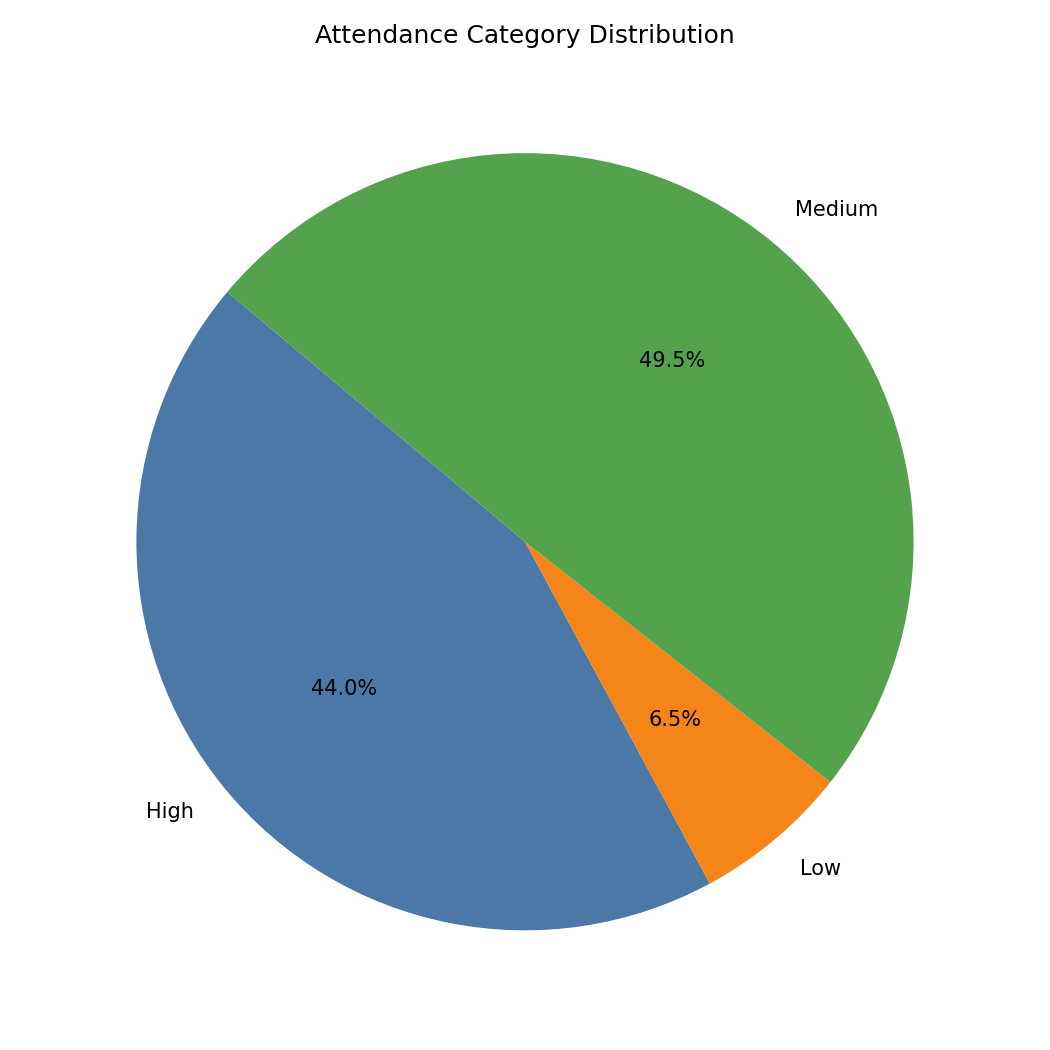
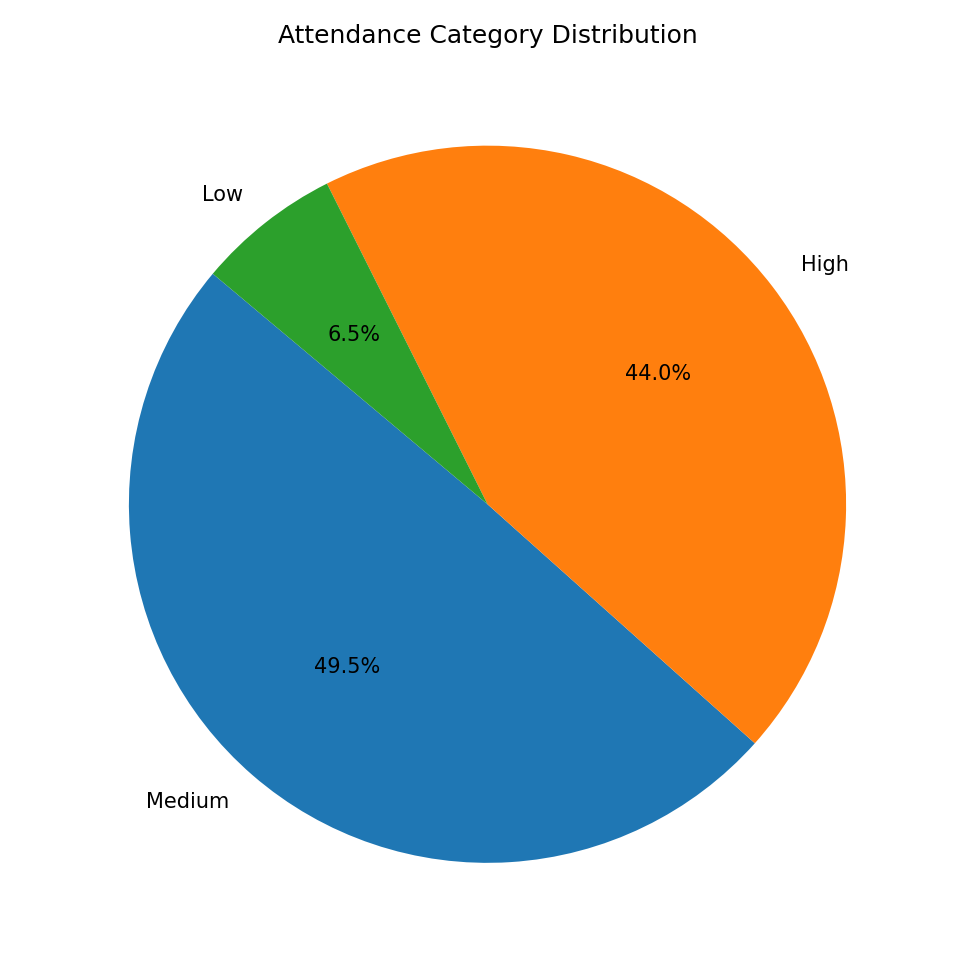
Add employee performance tracker with data generation and analysis pipeline

diff --git a/employee_performance_tracker/scripts/data_generation.py b/employee_performance_tracker/scripts/data_generation.py
@@ -1,0 +1,49 @@
+from pathlib import Path
+import numpy as np
+import pandas as pd
+
+
+def generate_mock_employee_data(num_employees: int = 200, seed: int = 42) -> pd.DataFrame:
+    rng = np.random.default_rng(seed)
+
+    departments = ["Sales", "Engineering", "HR", "Marketing", "Finance", "Operations", "Support"]
+    department_probs = np.array([0.18, 0.32, 0.06, 0.12, 0.10, 0.14, 0.08])
+
+    first_names = [
+        "Alex", "Jordan", "Taylor", "Morgan", "Casey", "Riley", "Cameron", "Avery",
+        "Jamie", "Drew", "Quinn", "Rowan", "Hayden", "Reese", "Blake", "Parker",
+        "Logan", "Skyler", "Elliot", "Sawyer",
+    ]
+    last_names = [
+        "Smith", "Johnson", "Williams", "Brown", "Jones", "Garcia", "Miller", "Davis",
+        "Rodriguez", "Martinez", "Hernandez", "Lopez", "Gonzalez", "Wilson", "Anderson",
+        "Thomas", "Taylor", "Moore", "Jackson", "Martin",
+    ]
+
+    employee_ids = [f"E{idx:04d}" for idx in range(1, num_employees + 1)]
+    names = [f"{rng.choice(first_names)} {rng.choice(last_names)}" for _ in range(num_employees)]
+
+    assigned_departments = rng.choice(departments, size=num_employees, p=department_probs)
+    kpi_scores = np.clip(rng.normal(loc=75, scale=10, size=num_employees), 40, 100)
+    attendance = 60 + 40 * rng.beta(a=5, b=2, size=num_employees)
+
+    days_back = rng.integers(low=0, high=365, size=num_employees)
+    last_training = pd.Timestamp.today().normalize() - pd.to_timedelta(days_back, unit="D")
+
+    df = pd.DataFrame(
+        {
+            "Employee ID": employee_ids,
+            "Name": names,
+            "Department": assigned_departments,
+            "KPI score": np.round(kpi_scores, 2),
+            "Attendance %": np.round(attendance, 1),
+            "Last Training Date": last_training,
+        }
+    )
+    return df
+
+
+def save_to_excel(df: pd.DataFrame, path: Path) -> None:
+    path.parent.mkdir(parents=True, exist_ok=True)
+    with pd.ExcelWriter(path, engine="openpyxl") as writer:
+        df.to_excel(writer, sheet_name="Employees", index=False)

diff --git a/employee_performance_tracker/scripts/db_utils.py b/employee_performance_tracker/scripts/db_utils.py
@@ -1,0 +1,49 @@
+import os
+from pathlib import Path
+from typing import Optional
+
+import pandas as pd
+from sqlalchemy import create_engine, text
+from sqlalchemy.engine import Engine
+
+
+def get_engine(db_dialect: Optional[str] = None) -> Engine:
+    db_dialect = (db_dialect or os.getenv("DB_DIALECT", "sqlite")).lower()
+    if db_dialect in {"sqlite", "sqlite3"}:
+        base_dir = Path(__file__).resolve().parents[1]
+        data_dir = base_dir / "data"
+        data_dir.mkdir(parents=True, exist_ok=True)
+        sqlite_path = data_dir / "employee_performance.sqlite"
+        url = f"sqlite:///{sqlite_path}"
+        return create_engine(url)
+    if db_dialect in {"postgres", "postgresql", "pg"}:
+        user = os.getenv("POSTGRES_USER", "ep_user")
+        password = os.getenv("POSTGRES_PASSWORD", "ep_pass")
+        host = os.getenv("POSTGRES_HOST", "localhost")
+        port = int(os.getenv("POSTGRES_PORT", "5432"))
+        db = os.getenv("POSTGRES_DB", "employee_performance")
+        url = f"postgresql+psycopg2://{user}:{password}@{host}:{port}/{db}"
+        return create_engine(url, pool_pre_ping=True)
+    raise ValueError("Unsupported DB_DIALECT. Use sqlite or postgresql.")
+
+
+def load_dataframe(df: pd.DataFrame, engine: Engine, table_name: str) -> None:
+    df.to_sql(table_name, engine, if_exists="replace", index=False, method="multi")
+
+
+def run_top5_query(engine: Engine, table_name: str) -> pd.DataFrame:
+    query = text(
+        f"""
+        SELECT
+            "Employee ID" AS employee_id,
+            "Name" AS name,
+            "Department" AS department,
+            "KPI score" AS kpi_score,
+            "Attendance %" AS attendance_percent
+        FROM {table_name}
+        ORDER BY "KPI score" DESC, "Attendance %" DESC
+        LIMIT 5
+        """
+    )
+    with engine.connect() as conn:
+        return pd.read_sql(query, conn)

diff --git a/employee_performance_tracker/scripts/run_pipeline.py b/employee_performance_tracker/scripts/run_pipeline.py
@@ -1,0 +1,46 @@
+from pathlib import Path
+
+import pandas as pd
+
+from data_generation import generate_mock_employee_data, save_to_excel
+from db_utils import get_engine, load_dataframe, run_top5_query
+from analysis import clean_data, avg_kpi_by_dept, attendance_distribution
+from viz import plot_avg_kpi_by_dept, plot_attendance_pie
+
+
+BASE_DIR = Path(__file__).resolve().parents[1]
+DATA_DIR = BASE_DIR / "data"
+OUTPUTS_DIR = BASE_DIR / "outputs"
+TABLE_NAME = "employee_performance"
+
+
+def main() -> None:
+    DATA_DIR.mkdir(parents=True, exist_ok=True)
+    OUTPUTS_DIR.mkdir(parents=True, exist_ok=True)
+
+    # Phase 1
+    df = generate_mock_employee_data()
+    excel_path = DATA_DIR / "employee_performance.xlsx"
+    save_to_excel(df, excel_path)
+
+    engine = get_engine()  # defaults to SQLite
+    load_dataframe(df, engine, TABLE_NAME)
+
+    top5 = run_top5_query(engine, TABLE_NAME)
+    (OUTPUTS_DIR / "top5_by_kpi.csv").write_text(top5.to_csv(index=False))
+
+    # Phase 2
+    df_sql = pd.read_sql(f"SELECT * FROM {TABLE_NAME}", engine)
+    df_clean = clean_data(df_sql)
+
+    avg_df = avg_kpi_by_dept(df_clean)
+    dist_df = attendance_distribution(df_clean)
+
+    plot_avg_kpi_by_dept(avg_df, OUTPUTS_DIR / "avg_kpi_by_department.png")
+    plot_attendance_pie(dist_df, OUTPUTS_DIR / "attendance_category_distribution.png")
+
+    df_clean.to_csv(OUTPUTS_DIR / "employee_performance_cleaned.csv", index=False)
+
+
+if __name__ == "__main__":
+    main()

diff --git a/employee_performance_tracker/scripts/analysis.py b/employee_performance_tracker/scripts/analysis.py
@@ -1,0 +1,39 @@
+import pandas as pd
+
+
+def clean_data(df_raw: pd.DataFrame) -> pd.DataFrame:
+    df = df_raw.copy()
+    df = df.rename(
+        columns={
+            "Employee ID": "employee_id",
+            "Name": "name",
+            "Department": "department",
+            "KPI score": "kpi_score",
+            "Attendance %": "attendance_percent",
+            "Last Training Date": "last_training_date",
+        }
+    )
+    df["last_training_date"] = pd.to_datetime(df["last_training_date"], errors="coerce")
+    df["kpi_score"] = pd.to_numeric(df["kpi_score"], errors="coerce")
+    df["attendance_percent"] = pd.to_numeric(df["attendance_percent"], errors="coerce")
+
+    def cat(a: float) -> str:
+        if pd.isna(a):
+            return "Unknown"
+        if a >= 90:
+            return "High"
+        if a >= 75:
+            return "Medium"
+        return "Low"
+
+    df["attendance_category"] = df["attendance_percent"].apply(cat)
+    return df
+
+
+def avg_kpi_by_dept(df: pd.DataFrame) -> pd.DataFrame:
+    out = df.groupby("department")["kpi_score"].mean().round(2).reset_index()
+    return out.sort_values("kpi_score", ascending=False)
+
+
+def attendance_distribution(df: pd.DataFrame) -> pd.DataFrame:
+    return df["attendance_category"].value_counts().rename_axis("category").reset_index(name="count")

diff --git a/employee_performance_tracker/scripts/viz.py b/employee_performance_tracker/scripts/viz.py
@@ -1,0 +1,27 @@
+from pathlib import Path
+import matplotlib.pyplot as plt
+import pandas as pd
+
+
+def plot_avg_kpi_by_dept(avg_df: pd.DataFrame, out_path: Path) -> None:
+    plt.figure(figsize=(9, 5))
+    bars = plt.bar(avg_df["department"], avg_df["kpi_score"], color="#4C78A8")
+    plt.title("Average KPI by Department")
+    plt.xlabel("Department")
+    plt.ylabel("Average KPI")
+    plt.xticks(rotation=30, ha="right")
+    for b in bars:
+        h = b.get_height()
+        plt.annotate(f"{h:.1f}", (b.get_x() + b.get_width() / 2, h), xytext=(0, 3), textcoords="offset points", ha="center")
+    plt.tight_layout()
+    plt.savefig(out_path, dpi=150)
+    plt.close()
+
+
+def plot_attendance_pie(dist_df: pd.DataFrame, out_path: Path) -> None:
+    plt.figure(figsize=(6.5, 6.5))
+    plt.pie(dist_df["count"], labels=dist_df["category"], autopct="%1.1f%%", startangle=140)
+    plt.title("Attendance Category Distribution")
+    plt.tight_layout()
+    plt.savefig(out_path, dpi=150)
+    plt.close()
